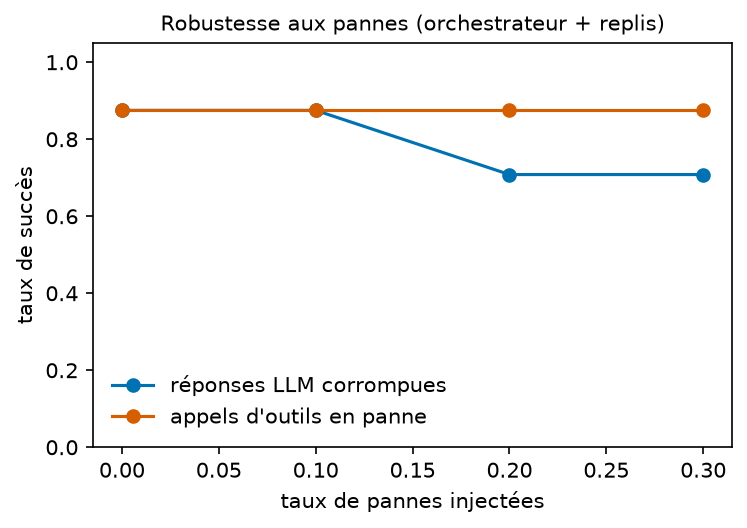
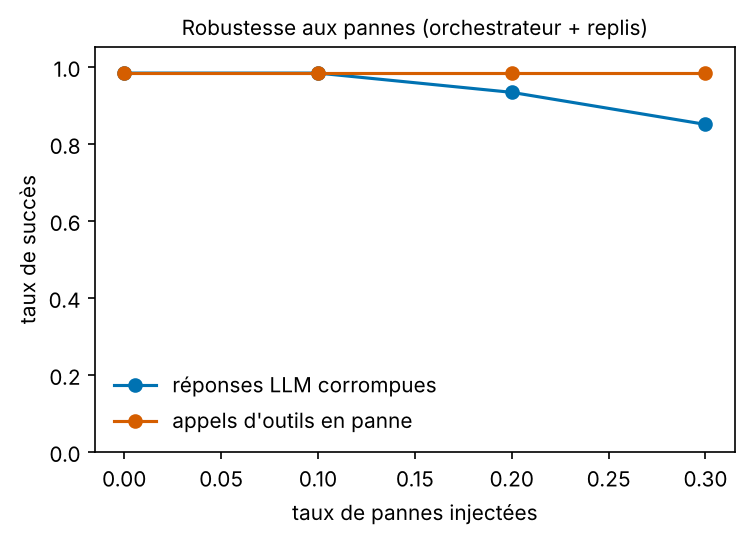
Corpus et site coherents avec les resultats complets

diff --git a/site/index.html b/site/index.html
@@ -3,21 +3,21 @@
 <style>:root{color-scheme:light dark}body{font:16px/1.5 system-ui;max-width:60rem;margin:2rem auto;padding:0 1rem}
 table{border-collapse:collapse;margin:.5rem 0}td,th{border:1px solid #8885;padding:.25rem .6rem;text-align:center}img{max-width:100%}code{background:#8882;padding:0 .2rem}</style>
 <h1>Vigenère-Squad — résultats</h1>
-<p>Version 1.0.0 · corpus sha256 <code>a2d1ca0d18c449f0…</code> · 24 échantillons × 1 répétitions · profil <b>small</b>.
+<p>Version 1.0.0 · corpus sha256 <code>b5b1280ccafdb132…</code> · 150 échantillons × 3 répétitions · profil <b>full</b>.
 Succès = texte retrouvé à ≥ 95 % de lettres exactes. Toutes les valeurs proviennent de <code>results/metrics.json</code>.</p>
-<h2>Résultats principaux</h2><h3>Outils seuls (baseline sans agents) — global 88 % (n=24)</h3><table><tr><th></th><th>100</th><th>500</th></tr><tr><th>affine</th><td>100 %</td><td>100 %</td></tr><tr><th>autoclave</th><td>100 %</td><td>100 %</td></tr><tr><th>beaufort</th><td>50 %</td><td>100 %</td></tr><tr><th>cesar</th><td>100 %</td><td>100 %</td></tr><tr><th>substitution</th><td>0 %</td><td>100 %</td></tr><tr><th>vigenere</th><td>100 %</td><td>100 %</td></tr></table><h3>Agents + outils (politique à règles, sans LLM) — global 88 % (n=24)</h3><table><tr><th></th><th>100</th><th>500</th></tr><tr><th>affine</th><td>100 %</td><td>100 %</td></tr><tr><th>autoclave</th><td>100 %</td><td>100 %</td></tr><tr><th>beaufort</th><td>50 %</td><td>100 %</td></tr><tr><th>cesar</th><td>100 %</td><td>100 %</td></tr><tr><th>substitution</th><td>0 %</td><td>100 %</td></tr><tr><th>vigenere</th><td>100 %</td><td>100 %</td></tr></table>
-<h2>Avec LLM local</h2><h3>LLM petit (qwen3:0.6b) — global 0 % (n=6)</h3><table><tr><th></th><th>200</th></tr><tr><th>affine</th><td>0 %</td></tr><tr><th>autoclave</th><td>0 %</td></tr><tr><th>beaufort</th><td>0 %</td></tr><tr><th>cesar</th><td>0 %</td></tr><tr><th>substitution</th><td>0 %</td></tr><tr><th>vigenere</th><td>0 %</td></tr></table>
+<h2>Résultats principaux</h2><h3>Outils seuls (baseline sans agents) — global 87 % (n=450)</h3><table><tr><th></th><th>50</th><th>100</th><th>200</th><th>500</th><th>1000</th></tr><tr><th>affine</th><td>100 %</td><td>100 %</td><td>100 %</td><td>100 %</td><td>100 %</td></tr><tr><th>autoclave</th><td>20 %</td><td>100 %</td><td>100 %</td><td>100 %</td><td>100 %</td></tr><tr><th>beaufort</th><td>40 %</td><td>80 %</td><td>100 %</td><td>100 %</td><td>100 %</td></tr><tr><th>cesar</th><td>100 %</td><td>100 %</td><td>100 %</td><td>100 %</td><td>100 %</td></tr><tr><th>substitution</th><td>0 %</td><td>13 %</td><td>67 %</td><td>100 %</td><td>100 %</td></tr><tr><th>vigenere</th><td>80 %</td><td>100 %</td><td>100 %</td><td>100 %</td><td>100 %</td></tr></table><h3>Agents + outils (politique à règles, sans LLM) — global 86 % (n=450)</h3><table><tr><th></th><th>50</th><th>100</th><th>200</th><th>500</th><th>1000</th></tr><tr><th>affine</th><td>100 %</td><td>100 %</td><td>100 %</td><td>100 %</td><td>100 %</td></tr><tr><th>autoclave</th><td>80 %</td><td>100 %</td><td>100 %</td><td>100 %</td><td>100 %</td></tr><tr><th>beaufort</th><td>20 %</td><td>40 %</td><td>100 %</td><td>100 %</td><td>100 %</td></tr><tr><th>cesar</th><td>100 %</td><td>100 %</td><td>100 %</td><td>100 %</td><td>100 %</td></tr><tr><th>substitution</th><td>7 %</td><td>27 %</td><td>93 %</td><td>100 %</td><td>100 %</td></tr><tr><th>vigenere</th><td>60 %</td><td>60 %</td><td>80 %</td><td>100 %</td><td>100 %</td></tr></table>
+<h2>Avec LLM local</h2><h3>LLM qwen3_4b (qwen3:4b) — global 50 % (n=6)</h3><table><tr><th></th><th>200</th></tr><tr><th>affine</th><td>100 %</td></tr><tr><th>autoclave</th><td>0 %</td></tr><tr><th>beaufort</th><td>0 %</td></tr><tr><th>cesar</th><td>100 %</td></tr><tr><th>substitution</th><td>100 %</td></tr><tr><th>vigenere</th><td>0 %</td></tr></table>
 <h2>Figures</h2><img src="figures/succes_par_chiffre_longueur.png" alt="Succès par chiffrement et longueur"><img src="figures/pannes.png" alt="Pannes"><img src="figures/succes_vs_unicite.png" alt="Unicité">
-<h2>Robustesse</h2><ul><li>5 % de lettres erronées : 71 %</li><li>Clair anglais : 56 %</li></ul>
+<h2>Robustesse</h2><ul><li>5 % de lettres erronées : 49 %</li><li>Clair anglais : 56 %</li></ul>
 <h2>Environnement</h2><pre>{
- &quot;python&quot;: &quot;3.11.18&quot;,
- &quot;plateforme&quot;: &quot;Windows-10-10.0.26300-SP0&quot;,
- &quot;cpu_count&quot;: 14,
- &quot;ram_go&quot;: 15.4,
+ &quot;python&quot;: &quot;3.13.18&quot;,
+ &quot;plateforme&quot;: &quot;Linux-6.18.44-fc-v338-x86_64-with-glibc2.39&quot;,
+ &quot;cpu_count&quot;: 2,
+ &quot;ram_go&quot;: 7.8,
  &quot;modeles_llm&quot;: {
-  &quot;petit&quot;: {
-   &quot;modele&quot;: &quot;qwen3:0.6b&quot;,
-   &quot;digest&quot;: &quot;7df6b6e09427a769808717c0a93cadc4ae99ed4eb8bf5ca557c90846becea435&quot;,
+  &quot;qwen3_4b&quot;: {
+   &quot;modele&quot;: &quot;qwen3:4b&quot;,
+   &quot;digest&quot;: &quot;359d7dd4bcdab3d86b87d73ac27966f4dbb9f5efdfcc75d34a8764a09474fae7&quot;,
    &quot;temperature&quot;: 0.0,
    &quot;num_ctx&quot;: 4096
   }
